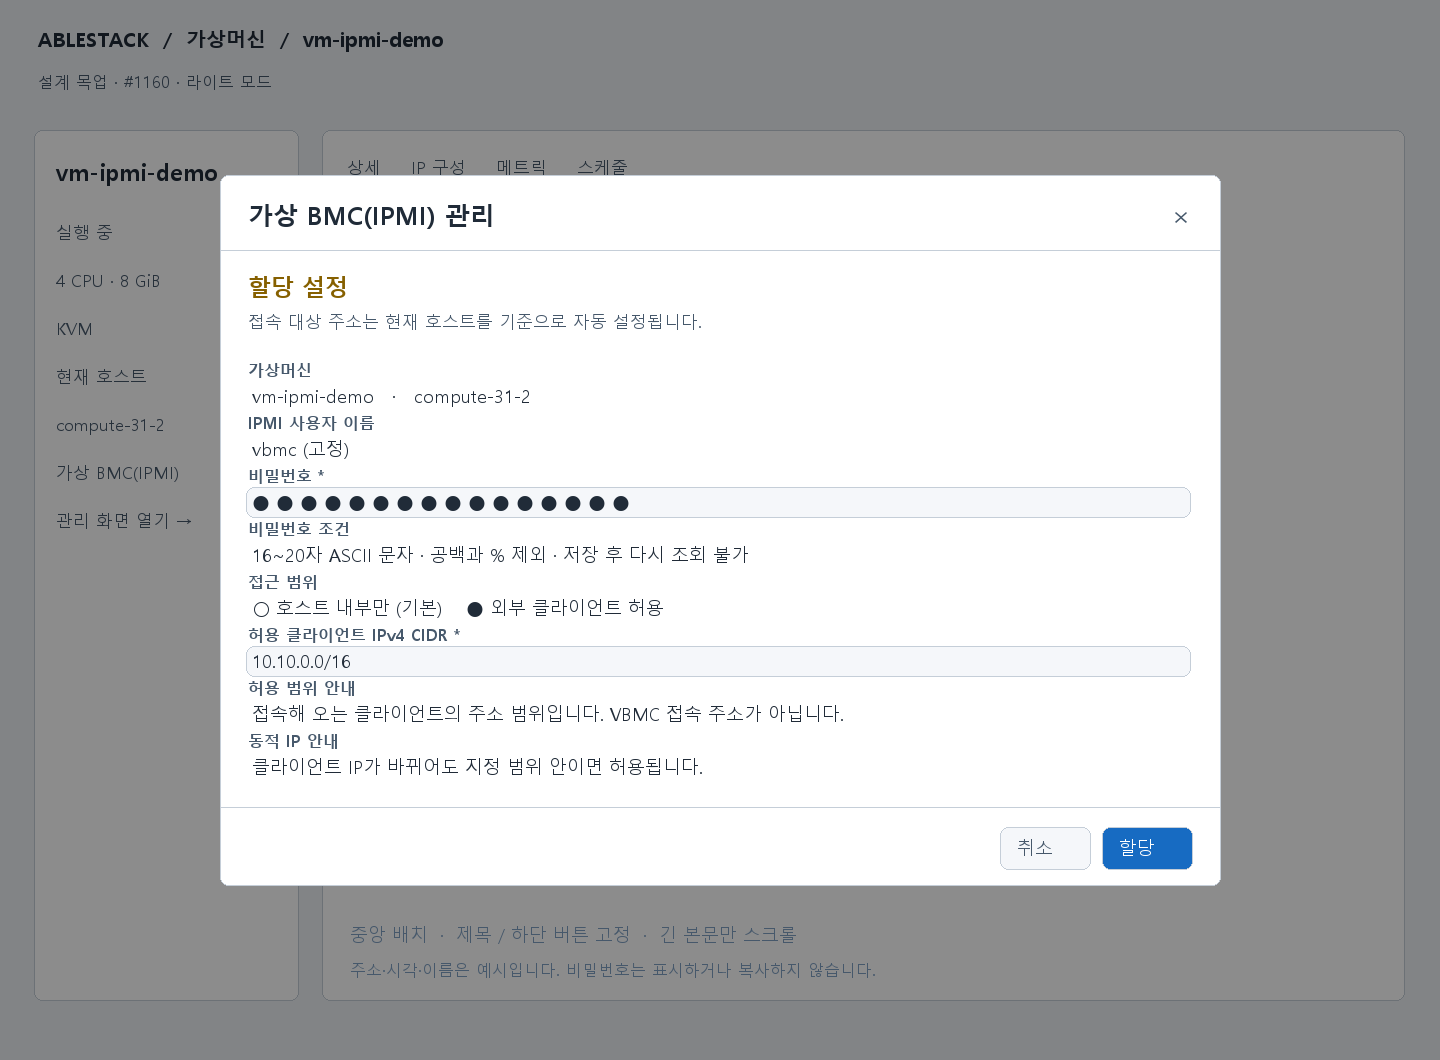
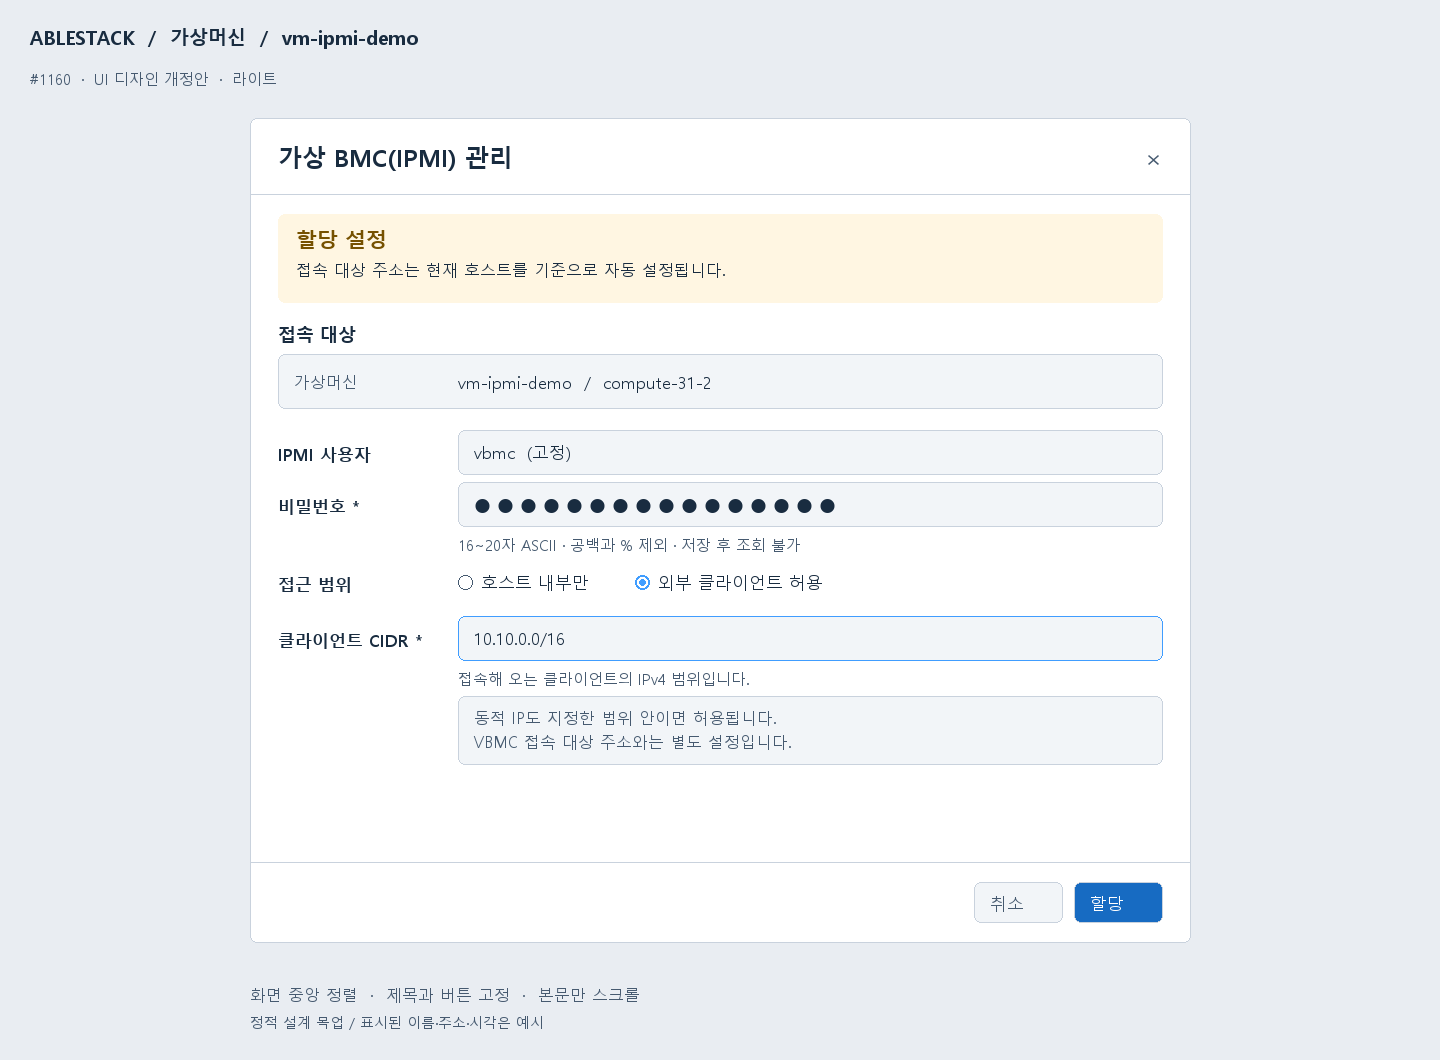
docs: VBMC 목업을 정보 표와 정렬된 입력 폼으로 개선

diff --git a/docs/design/vbmc-1160/render.py b/docs/design/vbmc-1160/render.py
@@ -82,64 +82,89 @@ SCREENS = [
   ('권한', '작업 권한이 없으면 조회 가능 범위 내에서 안내하고 실행은 차단합니다.')], ['닫기', '할당 불가']),
 ]
 
-def render(name, status, note, rows, buttons, light=False):
-    bg, panel, field, line, fg, muted = ('#eef1f5','#ffffff','#f5f7fa','#c5ced8','#202b38','#46586b') if light else ('#171e24','#252e37','#1d252d','#526170','#edf3f9','#c1cfdd')
-    im=Image.new('RGB',(1440,1060),bg); d=ImageDraw.Draw(im)
-    def txt(x,y,s,size=18,c=fg,b=False): d.text((x,y),s,font=ImageFont.truetype(BOLD if b else FONT,size),fill=c)
-    def box(r,fill=panel,outline=line): d.rounded_rectangle(r,8,fill=fill,outline=outline,width=1)
-    txt(38,25,'ABLESTACK  /  가상머신  /  vm-ipmi-demo',20,b=True)
-    txt(38,70,'설계 목업 · #1160 · '+('라이트 모드' if light else '다크 모드'),16,c=muted)
-    box((34,130,298,1000)); txt(56,155,'vm-ipmi-demo',23,b=True)
-    for i,s in enumerate(['실행 중','4 CPU · 8 GiB','KVM','현재 호스트','compute-31-2','가상 BMC(IPMI)','관리 화면 열기 →']): txt(56,220+i*48,s,17,c=muted)
-    box((322,130,1404,1000)); txt(347,155,'상세     IP 구성     메트릭     스케줄',17,c=muted)
-    # Fixed frame: title and footer outside scrollable body.
-    im.paste(Image.blend(im, Image.new("RGB", im.size, "#000000"), 0.45))
-    d=ImageDraw.Draw(im)
-    x,y,w,h=220,175,1000,710
-    box((x,y,x+w,y+h)); txt(x+28,y+22,'가상 BMC(IPMI) 관리',25,b=True); txt(x+w-48,y+22,'×',25,c=muted)
-    d.line((x,y+75,x+w,y+75),fill=line)
-    txt(x+28,y+95,status,23,c=('#866000' if light else '#ffdc88') if name not in ['03-ready'] else ('#126e4b' if light else '#8ce6bd'),b=True)
-    txt(x+28,y+134,note,17,c=muted)
-    yy=y+183
-    for label,val in rows:
-        txt(x+28,yy,label,16,c=muted,b=True)
-        if name == '02-allocate' and label in ['비밀번호 *', '허용 클라이언트 IPv4 CIDR *']:
-            box((x+26,yy+23,x+w-30,yy+53),field)
-        txt(x+32,yy+25,val,18); yy+=53
-    d.line((x,y+h-78,x+w,y+h-78),fill=line)
-    bx=x+w-28
+def render(name, status, note, rows, buttons, light=False, compact=False):
+    bg,panel,field,line,fg,muted=('#e9edf2','#ffffff','#f2f5f8','#c9d2dd','#192c40','#465a70') if light else ('#12191f','#242e38','#1a242e','#46596b','#edf4fc','#bdcede')
+    W,H=(900,740) if compact else (1440,1060)
+    im=Image.new('RGB',(W,H),bg); d=ImageDraw.Draw(im)
+    font=lambda n,b=False:ImageFont.truetype(BOLD if b else FONT,n)
+    def text(x,y,t,n=18,c=fg,b=False): d.text((x,y),t,font=font(n,b),fill=c)
+    def box(rect,fill=panel,outline=line,r=7): d.rounded_rectangle(rect,r,fill=fill,outline=outline)
+    def wrap(t,width,n=17):
+        out=[]; cur=''
+        for ch in t:
+            if d.textlength(cur+ch,font=font(n))>width: out.append(cur);cur=ch
+            else: cur+=ch
+        return out+[cur]
+    text(30,24,'ABLESTACK  /  가상머신  /  vm-ipmi-demo',19,b=True)
+    text(30,68,'#1160  ·  UI 디자인 개정안  ·  '+('라이트' if light else '다크'),15,c=muted)
+    x=40 if compact else 250; w=W-2*x; h=660 if compact else 824; y=(H-h)//2
+    box((x,y,x+w,y+h));text(x+28,y+22,'가상 BMC(IPMI) 관리',24,b=True);text(x+w-45,y+22,'×',24,c=muted)
+    d.line((x,y+76,x+w,y+76),fill=line)
+    # Status banner has a separate semantic surface.
+    color=('#17684b' if light else '#97e5c2') if name=='03-ready' else ('#765100' if light else '#ffdb91')
+    banner=('#eaf5f0' if light else '#203e36') if name=='03-ready' else ('#fff6e2' if light else '#3a3426')
+    yy=y+96; box((x+28,yy,x+w-28,yy+88),banner,banner)
+    text(x+46,yy+11,status,21,c=color,b=True)
+    for i,t in enumerate(wrap(note,w-100,16)):text(x+46,yy+44+i*22,t,16,c=fg)
+    yy+=108
+    if name=='02-allocate':
+        text(x+28,yy,'접속 대상',18,b=True);yy+=32
+        box((x+28,yy,x+w-28,yy+54),field)
+        text(x+44,yy+16,'가상머신',16,c=muted);text(x+208,yy+16,'vm-ipmi-demo  /  compute-31-2',17)
+        yy+=76
+        def form(label,value,helper=None,active=False):
+            nonlocal yy
+            text(x+28,yy+12,label,17,b=True)
+            box((x+208,yy,x+w-28,yy+44),field,'#409dff' if active else line)
+            text(x+224,yy+10,value,17)
+            yy+=52
+            if helper:
+                for t in wrap(helper,w-244,15):text(x+208,yy,t,15,c=muted);yy+=22
+                yy+=6
+        form('IPMI 사용자','vbmc  (고정)')
+        form('비밀번호 *','● ● ● ● ● ● ● ● ● ● ● ● ● ● ● ●','16~20자 ASCII · 공백과 % 제외 · 저장 후 조회 불가')
+        text(x+28,yy+10,'접근 범위',17,b=True)
+        d.ellipse((x+208,yy+13,x+222,yy+27),outline=muted,width=1)
+        text(x+231,yy+8,'호스트 내부만',17)
+        d.ellipse((x+385,yy+13,x+399,yy+27),outline='#409dff',width=2)
+        d.ellipse((x+389,yy+17,x+395,yy+23),fill='#409dff')
+        text(x+408,yy+8,'외부 클라이언트 허용',17); yy+=54
+        form('클라이언트 CIDR *','10.10.0.0/16','접속해 오는 클라이언트의 IPv4 범위입니다.',True)
+        if not compact:
+            box((x+208,yy,x+w-28,yy+68),field)
+            text(x+224,yy+10,'동적 IP도 지정한 범위 안이면 허용됩니다.',16,c=muted)
+            text(x+224,yy+34,'VBMC 접속 대상 주소와는 별도 설정입니다.',16,c=muted)
+    else:
+        text(x+28,yy,'접속 정보' if name=='03-ready' else '관리 정보',18,b=True); yy+=33
+        # Description table: stable label column, borders and wrapped values.
+        for label,val in rows:
+            if '접속 예시' in label:
+                yy+=14;text(x+28,yy,'접속 명령',17,b=True);yy+=29
+                box((x+28,yy,x+w-28,yy+72),field)
+                for i,t in enumerate(wrap(val,w-90,16)):text(x+44,yy+12+i*24,t,16)
+                yy+=86;continue
+            lines=wrap(val,w-280,16);rh=max(48,20+max(len(lines),len(wrap(label,168,16)))*23)
+            d.rectangle((x+28,yy,x+220,yy+rh),fill=field,outline=line)
+            d.rectangle((x+220,yy,x+w-28,yy+rh),fill=panel,outline=line)
+            for i,t in enumerate(wrap(label,168,16)):text(x+42,yy+12+i*22,t,16,c=muted,b=True)
+            for i,t in enumerate(lines):text(x+237,yy+12+i*23,t,16)
+            yy+=rh
+    # Footer is always a distinct fixed region.
+    fy=y+h-80
+    d.rectangle((x+1,fy,x+w-1,y+h-8),fill=panel)
+    d.line((x,fy,x+w,fy),fill=line);bx=x+w-28
     for j,label in enumerate(reversed(buttons)):
-        bw=max(90,int(d.textlength(label,font=ImageFont.truetype(FONT,18)))+34)
-        primary=j==0 and len(buttons)>1 and label!='할당 불가'
-        box((bx-bw,y+h-58,bx,y+h-16), '#176bc2' if primary else field)
-        txt(bx-bw+17,y+h-50,label,18,c='#ffffff' if primary else muted); bx-=bw+12
-    txt(350,922,'중앙 배치  ·  제목 / 하단 버튼 고정  ·  긴 본문만 스크롤',18,c=muted)
-    txt(350,958,'주소·시각·이름은 예시입니다. 비밀번호는 표시하거나 복사하지 않습니다.',16,c=muted)
-    im.save(OUT/(name+('-light' if light else '-dark')+'.png'))
+        bw=max(88,int(d.textlength(label,font=font(17)))+32);primary=j==0 and len(buttons)>1 and label!='할당 불가'
+        box((bx-bw,fy+20,bx,fy+60),'#176bc2' if primary else field)
+        text(bx-bw+16,fy+29,label,17,c='#ffffff' if primary else muted);bx-=bw+12
+    if compact:
+        d.rounded_rectangle((x+w-13,y+96,x+w-7,fy-12),3,fill=field)
+        d.rounded_rectangle((x+w-13,y+96,x+w-7,y+310),3,fill=muted)
+    else:
+        text(x,H-77,'화면 중앙 정렬  ·  제목과 버튼 고정  ·  본문만 스크롤',16,c=muted)
+        text(x,H-48,'정적 설계 목업 / 표시된 이름·주소·시각은 예시',14,c=muted)
+    im.save(OUT/('10-compact-scroll-dark.png' if compact else name+('-light' if light else '-dark')+'.png'))
 
 for s in SCREENS: render(*s)
-for s in [SCREENS[1],SCREENS[2],SCREENS[6]]: render(*s,light=True)
-
-# Compact viewport: the body is clipped inside its own scroll region.
-im=Image.new('RGB',(900,700),'#171e24'); d=ImageDraw.Draw(im)
-f=lambda n:ImageFont.truetype(FONT,n)
-d.rounded_rectangle((50,40,850,660),8,fill='#252e37',outline='#526170')
-d.text((78,64),'가상 BMC(IPMI) 관리',font=f(24),fill='#edf3f9')
-d.line((50,115,850,115),fill='#526170')
-body=Image.new('RGB',(744,462),'#252e37'); bd=ImageDraw.Draw(body)
-lines=['할당 설정','가상머신: vm-with-a-very-long-name-for-ipmi-management',
- '긴 이름은 줄바꿈 또는 툴팁으로 전체 내용을 확인합니다.',
- 'IPMI 사용자 이름: vbmc (고정)','비밀번호 *',
- '● ● ● ● ● ● ● ● ● ● ● ● ● ● ● ●',
- '16~20자 ASCII · 공백과 % 제외','접근 범위: 외부 클라이언트 허용',
- '허용 클라이언트 IPv4 CIDR *','10.10.0.0/16',
- '클라이언트가 접속해 오는 주소 범위입니다.',
- '지정 범위 내 동적 IP는 허용됩니다.']
-for i,t in enumerate(lines): bd.text((0,i*46),t,font=f(19),fill='#edf3f9')
-im.paste(body,(78,134)); d=ImageDraw.Draw(im)
-d.rounded_rectangle((831,133,837,588),3,fill='#1d252d')
-d.rounded_rectangle((831,134,837,384),3,fill='#c1cfdd')
-d.line((50,595,850,595),fill='#526170')
-for x,t,c in [(628,'취소','#1d252d'),(732,'할당','#176bc2')]:
- d.rounded_rectangle((x,609,x+90,649),5,fill=c,outline='#526170'); d.text((x+23,616),t,font=f(18),fill='#edf3f9')
-im.save(OUT/'10-compact-scroll-dark.png')
+for s in [SCREENS[1],SCREENS[2],SCREENS[6]]:render(*s,light=True)
+render(*SCREENS[1],compact=True)

diff --git a/docs/design/vbmc-1160/README.md b/docs/design/vbmc-1160/README.md
@@ -44,3 +44,8 @@
 다크 본문 #edf3f9, 보조문구 #c1cfdd, 배경 #252e37. 라이트 본문 #202b38, 보조문구 #46586b, 배경 #ffffff. 입력 필드·선·버튼은 테마 색을 따른다. 상태는 색뿐 아니라 텍스트로 구분한다.
 
 목업은 정적 PNG 13장이다. 다크 9개 상태, 라이트 할당/정상/정리 필요 3장, 작은 화면 본문 스크롤 1장. 이는 설계 검토 자료이며 구현·실제 브라우저 검증·빌드·배포 완료를 의미하지 않는다. 구현 시 VM 스냅샷/호스트 장치의 공통 컴포넌트를 사용하고 실제 API 권한/비동기 결과/반응형 동작을 검증한다.
+
+
+## 디자인 개정 (리뷰 반영)
+
+평문 나열을 제거하고 조회 항목은 고정 레이블 열·구분선·줄바꿈을 가진 2열 정보 표로 통일했다. 할당 화면은 입력 필드/라디오 선택/필드별 도움말로 구분하며 입력 영역 시작점을 정렬했다. 상태 배너, 접속 명령 상자, 본문 및 고정 버튼 영역을 구분한다. 다크/라이트 13장 모두 교체했으며 긴 레이블 행 높이와 좁은 화면 배치를 조정했다.
